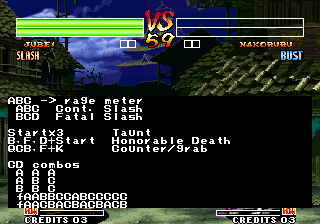
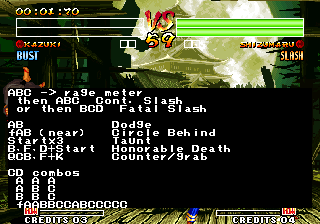
samsho4cs: remove bogus combo

diff --git a/src/components/WhatsNewPage/WhatsNewPage.tsx b/src/components/WhatsNewPage/WhatsNewPage.tsx
@@ -63,6 +63,12 @@ function WhatsNewPage() {
   return (
     <div className="mt-8 mb-16 flex flex-col gap-y-2">
       <h1 className="font-bold text-2xl mb-4 text-center">What&apos;s New</h1>
+      <NewEntry title="Samurai Shodown 4 Cheat Sheet fix" date="2024-06-28">
+        <p>
+          One of the combos listed on the common page was bogus. So it was
+          removed.
+        </p>
+      </NewEntry>
       <NewEntry
         title="New hack: Samurai Shodown 4 cheat sheet"
         date="2024-06-27"

diff --git a/src/hacks/samsho4.ts b/src/hacks/samsho4.ts
@@ -103,11 +103,6 @@ const samsho4: RomHackGameEntry = {
       ],
       screenshots: [
         {
-          fileName: "cheatsheet.png",
-          description:
-            "Your current player's moves shown when you pause the game.",
-        },
-        {
           fileName: "kazuki.png",
           description:
             "Your current player's moves shown when you pause the game.",
